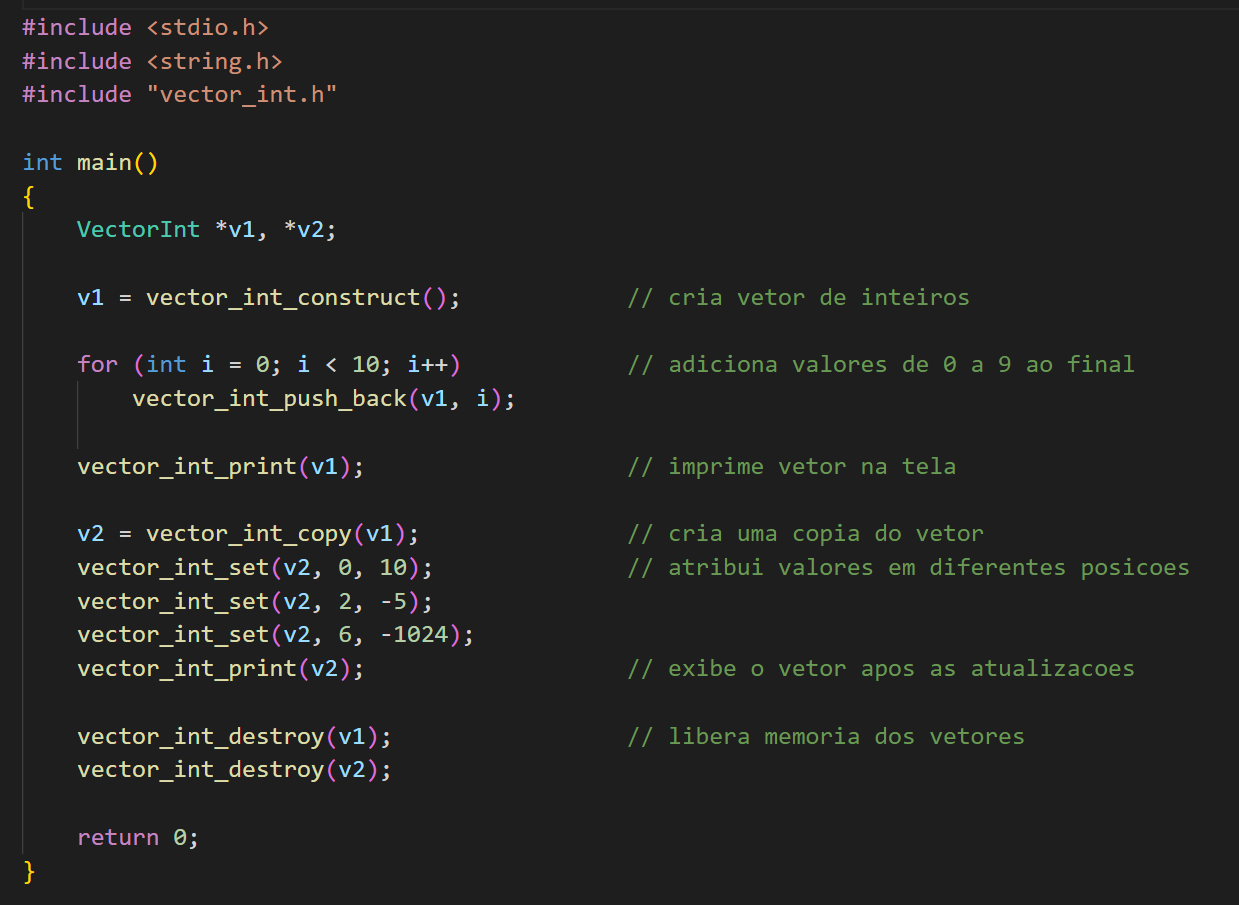
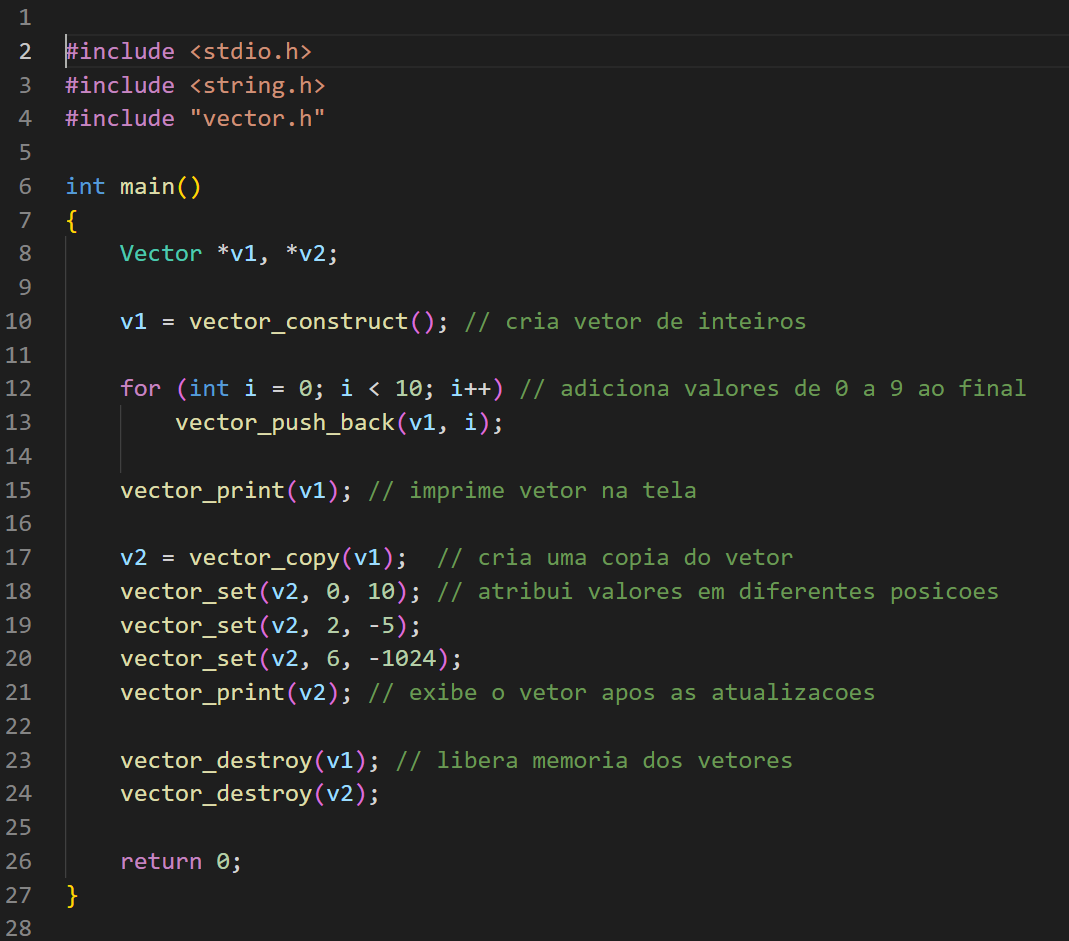
melhoria no lab

diff --git a/02-02-vectors-part1.md b/02-02-vectors-part1.md
@@ -72,6 +72,17 @@ A instrução acima define ```data_type``` como um apelido para o tipo ```int```
 - um inteiro para armazenar a capacidade atual do Vector  i.e., o número de itens alocados ou qual é o limite máximo de itens que podemos armazenar; e 
 - um inteiro para armazenar o tamanho do vector, i.e., quantos itens de fato foram inseridos até o momento.
 
+```
+typedef struct
+{
+    data_type *data;
+    int size;
+    int allocated;
+} Vector;
+```
+
+**Mantenha os atributos com os nomes especificados acima para este laboratório e defina a estrutura no arquivo .h**.
+
 4. Adicione as declarações das funções para manipulação de vectors que vamos implementar. Utilizaremos na disciplina o padrão de nomear as funções como ```tipo_acao```, por exemplo, ```vector_construct```. Implementaremos as seguintes funções: 
 
 ```
